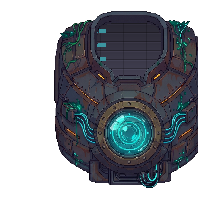
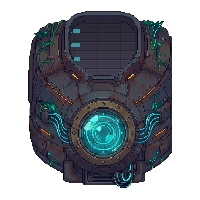
Leviathan: Arme an Schultern, Torso zentriert, erloschener Arm/Kopf im Tod
Claude-Session: https://claude.ai/code/session_016nKYwq6xMe1hcnuHKMufGz

diff --git a/src/dungeon/anim/rigs/boss_leviathan.ts b/src/dungeon/anim/rigs/boss_leviathan.ts
@@ -58,7 +58,8 @@ function levPose(e: Enemy, time: number, playerX: number): Pose {
     const dmgVar = frac < 0.35 ? 4 : frac < 0.7 ? 3 : 0;
 
     if (dead) {
-      return { rot: side * 0.12, dy: 8, variant: dmgVar };
+      // Abgeschaltet: eigener, erloschener Arm (armDead), schlaff hängend
+      return { rot: side * 0.08, dy: 10, variant: 5 };
     }
     if (arm.state === 'tracking') {
       torsoLean += -side * 0.06;
@@ -105,7 +106,7 @@ function levPose(e: Enemy, time: number, playerX: number): Pose {
   const armR = makeArmPose(1);
 
   const torsoVariant = dead ? 3 : phase === 3 ? 2 : phase === 2 ? 1 : 0;
-  const headVariant = phase >= 2 && !dead ? 1 : 0;
+  const headVariant = dead ? 2 : phase >= 2 ? 1 : 0;
 
   return {
     // Schlitten bleibt 100 % starr auf der Nordwand-Laufschiene (kein vertikales Wackeln!)

diff --git a/src/dungeon/bosses/leviathanArena.ts b/src/dungeon/bosses/leviathanArena.ts
@@ -1008,9 +1008,9 @@ export function drawLeviathanBodyStatic(ctx: CanvasRenderingContext2D, room: Dun
     const deadPose = {
       carriage: { dx: 0, dy: 0, rot: 0 },
       torso: { dx: 0, dy: 4, rot: 0, variant: 3 },
-      head: { dx: 0, dy: 5, rot: 0.14, variant: 1 },
-      armL: { rot: -0.1, dy: 8, variant: 3 },
-      armR: { rot: 0.1, dy: 8, variant: 3 },
+      head: { dx: 0, dy: 5, rot: 0.14, variant: 2 },
+      armL: { rot: -0.08, dy: 10, variant: 5 },
+      armR: { rot: 0.08, dy: 10, variant: 5 },
     };
     drawRig(ctx, rigDef, rigImgs, lx, ly, deadPose);
     return;

diff --git a/scripts/leviathan-dead-parts.py b/scripts/leviathan-dead-parts.py
@@ -1,0 +1,28 @@
+"""Leviathan: Roh-Bild (weißer Hintergrund) → public/art/rigs/boss_leviathan/' + PART + '.png (240×260, an armIdle ausgerichtet)
+und art_source/rigs/boss_leviathan_' + PART + '.png (Rohquelle). Aufruf: python3 scripts/leviathan-arm-dead.py <roh.png>"""
+import sys, shutil
+from PIL import Image
+import numpy as np
+from PIL import ImageDraw
+src = sys.argv[1]
+PART = sys.argv[2] if len(sys.argv) > 2 else 'armDead'  # armDead | headDead
+REF = 'armIdle' if PART == 'armDead' else 'head'
+raw = Image.open(src).convert('RGB')
+# Flood-Fill von den Ecken (Weiß ≥ 235), nur Außenhintergrund wird transparent
+w = raw.copy()
+for pt in [(0, 0), (w.width-1, 0), (0, w.height-1), (w.width-1, w.height-1)]:
+    ImageDraw.floodfill(w, pt, (255, 0, 255), thresh=28)
+a = np.array(raw)
+m = np.array(w)
+bg = (m[:, :, 0] == 255) & (m[:, :, 1] == 0) & (m[:, :, 2] == 255)
+rgba = np.dstack([a, np.where(bg, 0, 255).astype(np.uint8)])
+im = Image.fromarray(rgba, 'RGBA')
+bb = im.getbbox(); im = im.crop(bb)
+ref = Image.open('public/art/rigs/boss_leviathan/' + REF + '.png'); rb = ref.getbbox()
+k = min((rb[2]-rb[0]) / im.width, (rb[3]-rb[1]) / im.height)
+im = im.resize((round(im.width*k), round(im.height*k)), Image.LANCZOS)
+out = Image.new('RGBA', ref.size, (0, 0, 0, 0))
+out.paste(im, (rb[0] + ((rb[2]-rb[0]) - im.width)//2, rb[3] - im.height), im)
+out.save('public/art/rigs/boss_leviathan/' + PART + '.png')
+shutil.copy(src, 'art_source/rigs/boss_leviathan_' + PART + '.png')
+print('ok', out.getbbox(), 'ref', rb)

diff --git a/scripts/leviathan-center-torso.py b/scripts/leviathan-center-torso.py
@@ -1,0 +1,16 @@
+"""Leviathan-Rig: Torso-Varianten (torso/torsoP2) im 200×200-Rahmen waagerecht auf Mitte 100 schieben,
+damit alle 4 Torso-Zustände dieselbe Körpermitte haben (sonst springen Schultern/Arme beim Phasenwechsel)."""
+from PIL import Image
+import numpy as np, sys
+d = 'public/art/rigs/boss_leviathan/'
+for n in ['torso', 'torsoP2', 'torsoP3', 'torsoDead']:
+    im = Image.open(d + n + '.png').convert('RGBA')
+    a = np.array(im)[:, :, 3] > 40
+    cols = np.where(a.any(0))[0]
+    shift = 100 - int(round((cols.min() + cols.max()) / 2))
+    if shift == 0 or abs(shift) > 40:
+        continue
+    out = Image.new('RGBA', im.size, (0, 0, 0, 0))
+    out.paste(im, (shift, 0))
+    out.save(d + n + '.png')
+    print(n, 'verschoben um', shift)

diff --git a/handoff/endboss_arena.md b/handoff/endboss_arena.md
@@ -88,6 +88,13 @@
 ## Achtung für parallele Chats
 - Phase A (Raumgrenzen pro Raum) und B (Kamera) ändern die gemeinsamen Dateien `DungeonScene.ts`, `enemyAi.ts`, `dungeonRenderer.ts`, `bossEngine.ts`, `bossFx.ts`, `navGrid.ts`. Solange A/B laufen, steht das hier als **„A/B läuft“** — Rig-Chats dann nur kleine Renderer-Änderungen und vorher `git fetch`.
 
+
+### Leviathan-Rig-Politur (Arme schwebten, Schlaf-/Tod-Zustand)
+- **Ursache „Arme schweben weit weg“:** Die Torso-PNGs (`torso`, `torsoP2`) lagen im 200×200-Rahmen bis zu 26 px rechts der Mitte (P3/Dead mittig) und `attach` der Arme war 0.06/0.94 + `offset ±28` → linker Arm 40+ px neben dem Körper, Torso-Varianten sprangen beim Phasenwechsel. Fix: `scripts/leviathan-center-torso.py` (Torso-Varianten auf Mitte 100 schieben), Arme `attach [0.1|0.9, 0.4]`, `pivot [0.42, 0.41]` (= Schulter-Kugel im Arm-Bild), `offset 0`; Kopf `pivot.x 0.67` (Kopf-Inhalt liegt rechts im 110er-Rahmen). **Lehre:** Pivot/Attach immer aus der echten Inhalts-Bbox (nicht aus Bildmitte) rechnen; `python3` + Pillow/numpy genügt (`getbbox`/Alpha).
+- **Tod/Schlaf ohne Sprite:** Tote Arme nutzten `armDmg` (glühende Lava-Risse), Kopf blieb cyan-leuchtend. Neu per `art:gen`: `armDead.png` (Variante 5 beider Arme) + `headDead.png` (Kopf-Variante 2), Rohbilder `art_source/rigs/boss_leviathan_armDead.png`/`_headDead.png`, Nachbearbeitung (Flood-Fill, Maßstab auf `armIdle`/`head`-Bbox) mit `scripts/leviathan-dead-parts.py <roh.png> armDead|headDead`. Verwendet in `anim/rigs/boss_leviathan.ts` (dead) und `drawLeviathanBodyStatic`.
+- **Prüfen:** `node scripts/rig-sheet.cjs boss_leviathan` (Fälle ruhe/hebt/schlag/steckt/beam/P2/P3/tot) → `tests/out/rig_boss_leviathan.png`. Frische VM: erst `npm install`.
+- Offen: kleine weiße Rauch-Pixel am Rand von `armDead.png` (Rauch war fast weiß im Rohbild) — kosmetisch, ggf. Nachbestellen/Nachzeichnen.
+
 ## Nächster Schritt
 1. **Abnahme Pilot A.E.G.I.S. Leviathan im echten Spiel** (Stufe 8 — live in Sektor 1 Ebene III oder `?bosslab` → ARENEN → 🏟 Leviathan): Kampfgefühl, alle 4 Körper-Phasen, Plattenbruch/Dampf/Trümmer, Schatzkammer & Mobil-Check (A9). Notfall-Rückweg: `ENDBOSS_ARENA_LIVE = false` in `balance.ts`.
 2. Phase A/B-Marker entfernen, sobald der Projektinhaber die Standardräume abgenommen hat.

diff --git a/SPRITE_QUEUE.md b/SPRITE_QUEUE.md
@@ -111,6 +111,7 @@ Wer im Code oder in einem Plan ein neues benötigtes Sprite, ein neues M11-Sheet
 | `P1-11b` | [x] | `public/art/sprites/arena_leviathan_body_p3.png` | Zustand Phase III wie P1-10 (`600×334` RGBA, gleiche Komposition) | `P1-10` | `MILESTONE_12_ARCHITECTURE.md` §6.1 | ✅ Phase III Panzer abgesprengt, freigelegter glühender Kern, gerissener Kopf/Schultern mit Funken & Rauch (`600×334` RGBA, 96,2 % Silhouetten-Deckung zu P1-10, Sichtprüfung ok, A11) |
 | `P1-11c` | [x] | `public/art/sprites/arena_leviathan_body_dead.png` | Zustand besiegt wie P1-10 (`600×334` RGBA, gleiche Komposition) | `P1-10` | `MILESTONE_12_ARCHITECTURE.md` §6.1 | ✅ via `npm run art:gen` (`gemini-nano-banana-2.1`, `600×334` RGBA, 94,6 % Deckung): Augen & zerborstene Linse komplett erloschen, verkohlter Stahl, tote Kabel — bleibt in der Nordwand neben der Schatzkammer (A11/A14) |
 | `P1-12` | [x] | `public/art/sprites/arena_leviathan_vault.png` | Schatzkammer hinter der Wand (Draufsicht) · `384×288` | `arena_leviathan_bg.png` | `MILESTONE_12_ARCHITECTURE.md` §6.2 | ✅ per `npm run art:gen` (Claude M12), `352×224` (= 176×112 logisch); eingebaut (`arenaVault.ts`). Kleine Reaktor-Schatzkammer (Moonlighter-Idee des Inhabers): öffnet sich nach dem Sieg ohne Ladeübergang, Boss-Truhe in der Mitte |
+| `P1-13` | [x] | `public/art/rigs/boss_leviathan/armDead.png` + `headDead.png` | Einzelteile (240×260 / 110×110, Pose-Rahmen wie `armIdle`/`head`) | `armIdle.png`, `head.png` | `handoff/endboss_arena.md` (Rig-Politur) | ✅ via `npm run art:gen` (Claude, Inhaber-Wunsch 2026-11-28): erloschener Arm & Kopf für Tod/Schlaf-Zustand, ersetzen die glühenden `armDmg`/cyan-Kopf im Tod; Rohquellen `art_source/rigs/boss_leviathan_{armDead,headDead}.png` |
 
 ---
 
